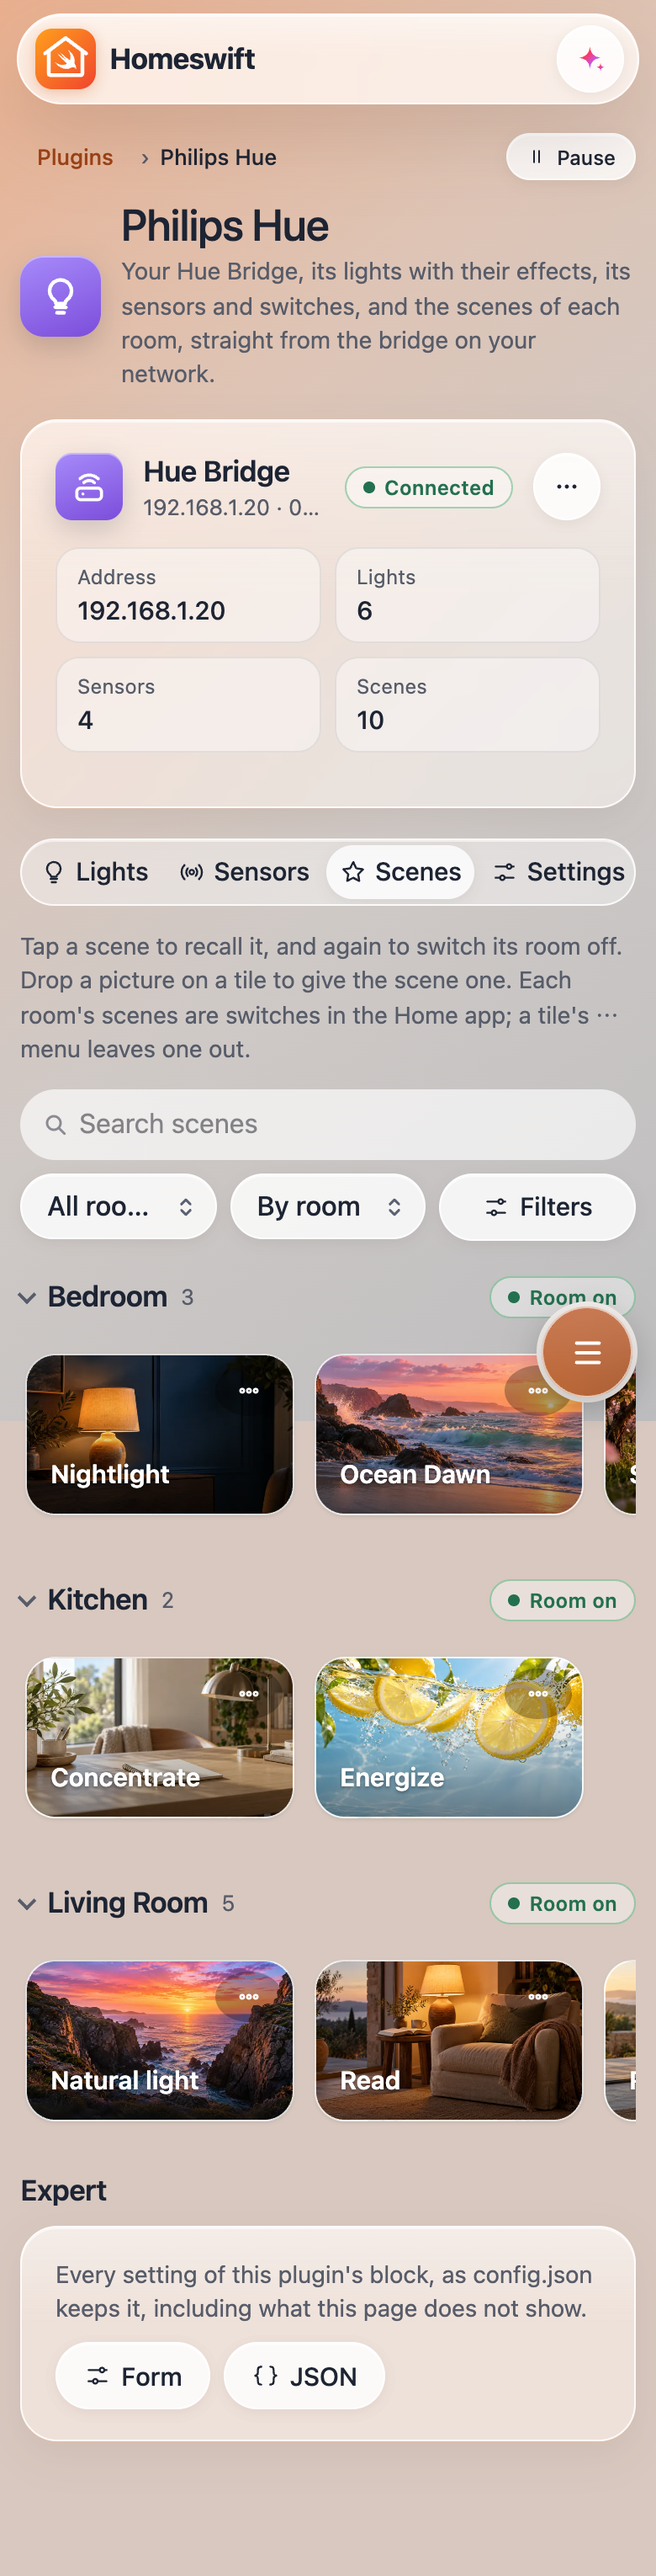
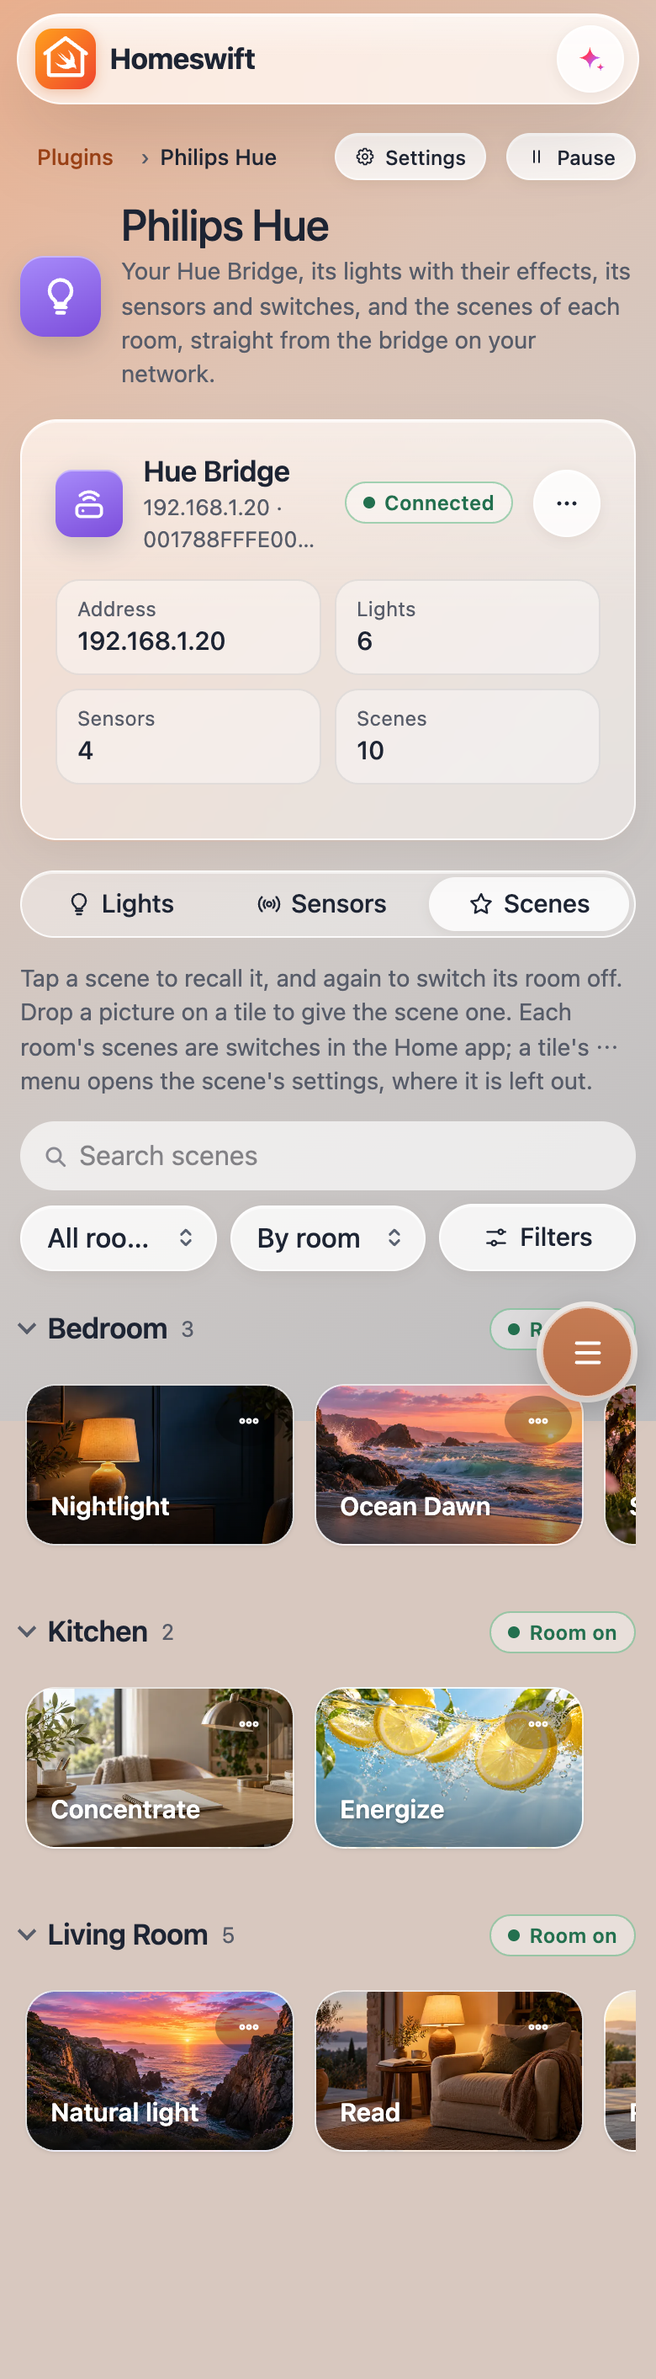
docs: prepare 0.20.0's documentation and screenshots
- Retake the screenshots the unreleased UI changed: the Hue and DIRIGERA pages (Settings
  in the header, no Expert box), Quick controls, the playing template, the widget sizes,
  the accessory group picker and the widget menu. Images that moved by antialiasing only
  are left as they were.
- widget-screenshots.mjs waits for the group picker's fade-in before its shot, which came
  out half transparent.
- docs/plugins.md and CLAUDE.md name HomeswiftNetwork's new pieces (TCPSocket, SSDP, CoAP,
  FCMReceiver, ARPTable, MACAddress) and PluginContext.logs, with their Node.js
  counterparts in the porting table; CLAUDE.md lists docs/clean-room.
- CHANGELOG: the escaping fix of #54.
- Benchmarks/README.md: before and after the seventeen new plugins.

diff --git a/CLAUDE.md b/CLAUDE.md
@@ -22,7 +22,7 @@ Library `Homeswift`, plugin API and runtime `HomeswiftPlugin`, the `homeswift` b
 | `Sources/HomeswiftMCP` | The MCP server: `JSONRPC`, `MCPServer`/`MCPSession` (methods, elicitation), `Scopes` (`MCPConfiguration`, tokens), `AuditLog`, `HomeswiftCatalog` (the tools, resources and prompts over a `PluginHost`; also the web UI's control surface; `AssistantTools`: usage, connection test, the daily digest, log export and truncation), `HTTPServer` (Streamable HTTP on NIO), `StdioProxy` (`homeswift mcp`), `ChatToolbox` (the tools for the web UI's chat, an in-process session), `SetupTools` (Setup Sessions, `discover_devices`/`start_setup`/`continue_setup`/`cancel_setup`), `Settings` (the settings writers `updateAccessorySettings`/`updatePluginSettings`, `accessorySchema` checks, `get_settings`/`update_settings`), `AccessoryLayout` (the Arrangement in `accessory-layout.json`: rooms' order, Quick Controls; legacy rooms read), `HostName` and `FailureThrottle` (shared with the web UI) |
 | `Sources/HomeswiftUI` | The web UI: `UIConfiguration` (the `HomeswiftUI` block), `Auth` (users, PBKDF2, sessions, login throttle), `UIServer` (NIO HTTP, the JSON API, the event stream), `Cameras` (camera snapshots and live fMP4 streams), `AssistantChat` (the chat's conversations, kept in `ui-chats.json`), `AccessoryLayout` (the Accessories wall's order and sizes, `ui-layout.json`), `AssistantRoutes` (the pages' streamed, cancellable Assistant requests), `SetupRoutes` (`/api/setup/…` for the Add accessories page, `Web/setup.js`), `SettingsRoutes` (`/api/settings/accessories/…` and `/api/settings/plugins/…`), `Preferences` (each user's appearance and Status layout), `Certificate` (HTTPS, self-signed), `OAuth`/`OAuthRoutes` (the MCP server at the UI's `/mcp` for claude.ai: discovery, client registration, PKCE codes and rotated refresh tokens in `ui-oauth.json`, the `/oauth/authorize` sign-in page, Account's connected apps), `Web/` (the pages, `widgets.js` the accessory widgets; `WebAssets.swift` is generated from it) |
 | `Sources/HomeswiftMatter` | The Matter bridge (docs/matter.md): `MatterConfiguration` (the `HomeswiftMatter` block, include/exclude, `exposeSecurity`), `ServiceMapping` (a HAP service as a Matter device kind, its states and the writes a command makes), `HomeswiftMatterBridge` (a `MatterNode` and `MatterBridge` from the swift-matter package, kept in step with the host's accessories both ways; the catalog's `MatterControl`, set by the CLI) |
-| `Sources/HomeswiftNetwork` | For plugins reaching devices and clouds: `NetworkInterfaces`, `HTTPClient` (NIO and NIOSSL; trusts or pins a self-signed certificate, the same on Linux; `TrustOnFirstUse`; `stream` for a body that keeps coming, `ServerSentEvents` for an event stream, in `HTTPStreaming.swift`), `DigestAuthentication`, `WakeOnLAN`, `UDPSocket` and `localIPv4Networks`, `WebSocket`, `MQTTClient` (`MQTTPacket`, `MQTTTransport`; MQTT 3.1.1 and 5), `TLSOptions` (roots such as Amazon Root CA 1, client certificates, ALPN, cipher lists), `MDNSQuery` (a one-shot mDNS query whose answers carry the sender's address), `AWSSignatureV4`, `URLEncoding`, `Backoff` |
+| `Sources/HomeswiftNetwork` | For plugins reaching devices and clouds: `NetworkInterfaces`, `HTTPClient` (NIO and NIOSSL; trusts or pins a self-signed certificate, the same on Linux; `TrustOnFirstUse`; `stream` for a body that keeps coming, `ServerSentEvents` for an event stream, in `HTTPStreaming.swift`), `DigestAuthentication`, `WakeOnLAN`, `UDPSocket` and `localIPv4Networks`, `WebSocket`, `MQTTClient` (`MQTTPacket`, `MQTTTransport`; MQTT 3.1.1 and 5), `TLSOptions` (roots such as Amazon Root CA 1, client certificates, ALPN, cipher lists), `MDNSQuery` (a one-shot mDNS query whose answers carry the sender's address), `AWSSignatureV4`, `URLEncoding`, `Backoff`, `TCPStream` and `TCPSocket` (plain TCP), `Protobuf` and `Noise` (ESPHome's API), `SSDP`, `CoAP` (CoIoT), `FCMReceiver` (FCM web push, `FCMProtocol`, `WebPushDecryption`), `ARPTable` and `MACAddress` |
 | `Scripts/test.sh` | Builds the tests and runs every test target's bundle at once through SwiftPM's testing helper (`swift test` on Linux); `Scripts/ci-test.sh` is CI's, with a watchdog |
 | `Scripts/embed-assets.swift` | Embeds a plugin's `config.schema.json`, a `Web/` directory or the Assistant's `Prompts/` into Swift source; tests fail when the generated files are stale |
 | `Scripts/docs-screenshots.mjs` | Retakes the docs' web UI screenshots from a throwaway bridge with headless Chrome (docs/widgets.md, "Screenshots") |
@@ -33,6 +33,7 @@ Library `Homeswift`, plugin API and runtime `HomeswiftPlugin`, the `homeswift` b
 | `Scripts/forget-changed-targets.sh` | Drops the cached build of the targets changed since the commit the restored cache was built from (its key's last part), so CI compiles them whole rather than trusting dates |
 | `Scripts/new-plugin.swift` | Creates `Plugins/<Name>/` (a skeleton on a fake API that builds and passes its tests; `--service` picks the HAP services and characteristics from `Definitions.swift`, `--list` shows them), its targets in `Package.swift` and its registration in `Plugins.swift` |
 | `CONTRIBUTING.md`, `.github/` | How to propose a plugin and what it needs (the checklist), the plugin proposal issue form, the pull request template, `CODEOWNERS` |
+| `docs/clean-room` | The specs of the clean-room plugins (one per plugin or shared piece): written from the original by one author, implemented by another who never read it; no code from the original |
 | `THIRD-PARTY-NOTICES.md` | The copyright and permission notices of the projects code was ported from, and which paths come from each; a new port adds its own. `Scripts/collect-licenses.sh` puts it, `LICENSES/` and the compiled-in packages' licence files in the container image and the Synology package |
 | `.claude/skills/homeswift-plugin` | The skill for writing or porting a plugin (`references/porting.md`: Node.js to Swift; `scripts/check-on-bridge.sh`: a throwaway bridge queried over MCP). `.agents/skills` links it for Codex; `AGENTS.md` links this file |
 | `Plugins/<Name>` | One plugin: `Sources` (target `Homeswift<Name>`), `Tests`, `README.md`, `config.schema.json`, optionally `Web/` (its own UI page; `Sources/WebFiles.swift` is generated). `ElgatoKeyLights` is the reference, `PhilipsAmbilightTV` the one with external accessories, a shared transport and pairing |

diff --git a/docs/plugins.md b/docs/plugins.md
@@ -115,7 +115,11 @@ public actor MyDevicesPlugin: HomeswiftPlugin {
   as `.amazonRootCA1`, client identities, ALPN), `AWSSignatureV4`, `URLEncoding` (the JavaScript encodings, byte for
   byte, for signed requests), `Backoff` (retry delays with jitter), `TCPStream` (a plain TCP byte stream), `Protobuf`
   (`ProtobufWriter` and `ProtobufMessage`: the wire format by field number, without a schema) and `Noise` (the
-  `Noise_NNpsk0_25519_ChaChaPoly_SHA256` handshake and cipher states, ESPHome's encryption). A plugin depends on it rather than adding a
+  `Noise_NNpsk0_25519_ChaChaPoly_SHA256` handshake and cipher states, ESPHome's encryption), `TCPSocket` (a TCP
+  connection whose bytes arrive as a stream, for a binary protocol of the device's own), `SSDP` (an M-SEARCH and a
+  listener for UPnP devices), `CoAPMessage` (the CoAP codec, for CoIoT status multicasts), `FCMReceiver` (an FCM
+  web-push registration and receiver, for clouds that push to their phone app), `ARPTable` and `MACAddress` (the MAC
+  behind a LAN address, in one spelling for accessory ids). A plugin depends on it rather than adding a
   package; its tests take `FakeMQTTConnection` and `FakeWebSocket` from the `HomeswiftNetworkTestSupport` target.
 - **Helpers.** `Service(optional:)` with a type the service has already (`.targetTemperature.with(minValue: 30)`)
   changes its props; `accessory.takeValues(from: cached)` keeps the last values of a rebuilt accessory;
@@ -125,8 +129,9 @@ public actor MyDevicesPlugin: HomeswiftPlugin {
   `PersistedDictionary` and `context.jsonFile(_:as:)` keep values in owner-only JSON files, `context.secretFile(_:as:)`
   keeps a token or a key the same way but sealed in the bridge's vault (docs/vault-design.md), in the instance's
   namespace, moving the plain file of that name there the first time it reads it, `context.pictures(_:)` keeps
-pictures a page uploads (`data:` URLs of JPEG, PNG or WebP, checked by their bytes; the Hue and DIRIGERA scene tiles), and `EveHistory` is
-  fakegato-history for the Eve app.
+pictures a page uploads (`data:` URLs of JPEG, PNG or WebP, checked by their bytes; the Hue and DIRIGERA scene tiles), `EveHistory` is
+  fakegato-history for the Eve app, and `context.logs` is the bridge's log from now on (`LogBuffer.observe`), for a
+  plugin that acts on log lines (Dummy's log triggers); nil in a library or a test that gives the host none.
 - **History and energy.** `context.recordValue(_:series:)` records a reading for the Status page's history (a minute
   keeps its count, sum, lowest and highest, for 8 days; `/api/metrics/values?series=plugin:<platform>:<series>`
   answers it over a range, for a plugin's page; several series separated by commas answer at once, by name, under
@@ -603,6 +608,9 @@ Keep the platform name and the option names, and copy `config.schema.json` and t
 | `aws-iot-device-sdk` | `MQTTClient` over `.tls(…, options: TLSOptions(trust: .amazonRootCA1, clientIdentity: …))`, or a WebSocket URL from `AWSSignatureV4.presignIoTURL` |
 | `fakegato-history` | `EveHistory(kind, accessoryName:storageURL:)` in `HomeswiftPlugin`, its `service` on the accessory |
 | `dgram` | `HomeswiftNetwork.UDPSocket` |
+| `net` (`net.Socket`) | `HomeswiftNetwork.TCPSocket.connect(host:port:timeout:)` |
+| `node-ssdp` | `HomeswiftNetwork.SSDP` |
+| `push-receiver` / `@eneris/push-receiver` | `HomeswiftNetwork.FCMReceiver` |
 | `homebridge-ui/server.js`, `config.schema.json` | Keep the schema file; the settings page comes with the Homeswift UI |
 | `api.registerAccessory(name, Accessory)` | `static let runsAccessoryBlocks = true` with `platform = name`: see "Accessory plugins" below |
 

diff --git a/Benchmarks/README.md b/Benchmarks/README.md
@@ -467,3 +467,53 @@ quiet machine (load average 35), no warm-up log lines (`LOG_LINES=0`), CPU time 
 
 The HAP side (`hap-bench`): see "Found along the way" above for its request path.
 
+
+## Seventeen more plugins
+
+Did the plugins added for 0.20.0 (#56 to #83: Ring, IP Cameras, Sonos, Tuya, SwitchBot, tado°, Roborock, Google Nest,
+Dummy Accessories, MQTT Thing, ESPHome, Shelly, TP-Link Kasa and Tapo, Zigbee2MQTT, HTTP Webhooks) slow down the
+bridge? Apple M2 (8 cores), macOS 27.2, Swift 6.4.2, release builds, 2026-11-04. Before is `50e3caa`, the commit before
+the first of them; after is `654349c` (with the Tado fix that lets it build in release, below). Each pair ran
+interleaved twice while other sessions' builds kept the load average between 45 and 75: the better run of each, and CPU
+per request, the steadier figure.
+
+| The `homeswift` binary | before | after |
+|---|---:|---:|
+| Size | 74.7 MB | 90.3 MB |
+| Size, stripped | 48.3 MB | 57.1 MB |
+| Platforms compiled in (`homeswift plugins`) | 14 | 31 |
+| Empty config: start to web UI answering | 101 ms | 81 ms |
+| Empty config: idle footprint / RSS | 6.9 / 36 MB | 6.9 / 38 MB |
+| Empty config: idle CPU, threads | 0.1 %, 10 | 0.1 %, 10 |
+
+A plugin costs nothing until a block names it. With a block each, pointing at devices and brokers that are not there
+(an RTSP camera, an ESPHome device, an MQTT broker on a closed port; discovery on for Kasa, Shelly and Sonos), every
+plugin alone idles at 0.05 to 0.2 % CPU over its first 20 s, as the bridge does without one, and adds at most 1 MB of
+footprint, two threads and two sockets; all seventeen at once, 9.7 MB of footprint, 13 threads and 11 sockets. The exception was IP
+Cameras: 2.2 % over its first 20 s, 0.45 s of CPU parsing `ffmpeg -codecs` with a Swift `Regex` on each of its 550
+lines (shared with UniFi Protect, which pays it too). Checking for `(decoders: ` before the regex brings a start with
+one camera from 0.55 s of CPU to 0.07 s.
+
+| HAP, 30 accessories (`hap-bench`) | before | after |
+|---|---:|---:|
+| Pair setup, server round trips p50 | 11.36 ms | 10.89 ms |
+| Pair verify p50 | 0.42 ms | 0.41 ms |
+| `GET /accessories` p50 | 0.465 ms | 0.418 ms |
+| `GET /characteristics` ×10, 16 connections, CPU per request | 99 µs | 97 µs |
+| Event latency p50 | 51.35 ms | 51.29 ms |
+| Memory idle, footprint | 3.4 MB | 3.4 MB |
+
+| The whole bridge, 60 accessories (`bridge-bench`) | before | after |
+|---|---:|---:|
+| `GET /api/accessories`, 8 connections, CPU per request | 1 027 µs | 951 µs |
+| `GET /api/status`, one connection, CPU per request (three more runs alone: medians) | 255 µs | 255 µs |
+| MCP `list_accessories`, 4 connections, CPU per request | 1 396 µs | 1 460 µs |
+| `GET /api/scenes`, 4 connections, CPU per request | 7 180 µs | 8 276 µs |
+| a write → its event on `/api/events` p50 | 0.255 ms | 0.243 ms |
+| Idle footprint / CPU | 9.4 MB / 0.1 % | 9.3 MB / 0.1 % |
+
+Scenes moved by 15 % from run to run on either side (`8 801` and `7 180` µs before); nothing the plugins touch is on
+their path.
+
+Building it in release found what CI's debug builds do not: Swift 6.4.2's optimiser crashed on Tado's `homeSettings`
+(an `as?` cast of a typed-throws error in a closure), which would have failed the tagged release's image and packages.

diff --git a/CHANGELOG.md b/CHANGELOG.md
@@ -119,6 +119,9 @@ All notable changes to this project are documented here. The format follows
 
 - Security: a configuration key named `encryptionKey` (or `encryption_key`) is a secret-named key, for every plugin:
   the runtime seals it, resolves its references and masks it in logs, MCP replies and the Assistant's prompts.
+- Security: the web UI and homeswift.dev escape the language catalog's script address as an attribute before writing it,
+  and the site's language picker goes only to its own four pages (code scanning's DOM XSS alerts; the address was
+  already percent-encoded, so nothing could break out).
 - A plugin's Account and its devices that Need Authorization say **Set up** while nothing is set up, **Set up again**
   only once it has been.
 - On a Synology NAS the vault's key, the vault, config.json, the pairings and the web UI's accounts and tokens are the
